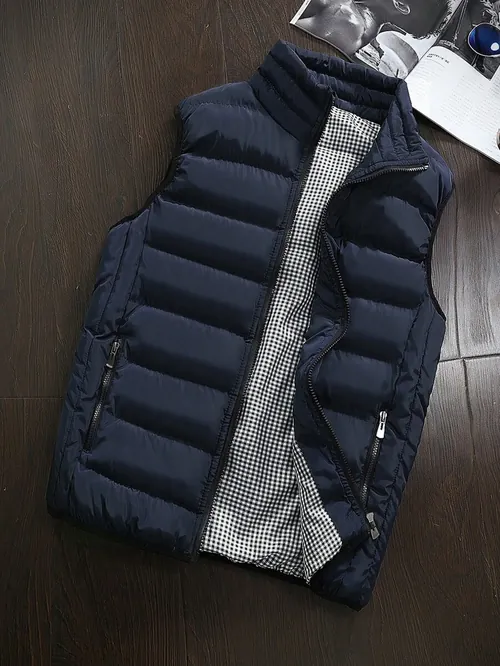
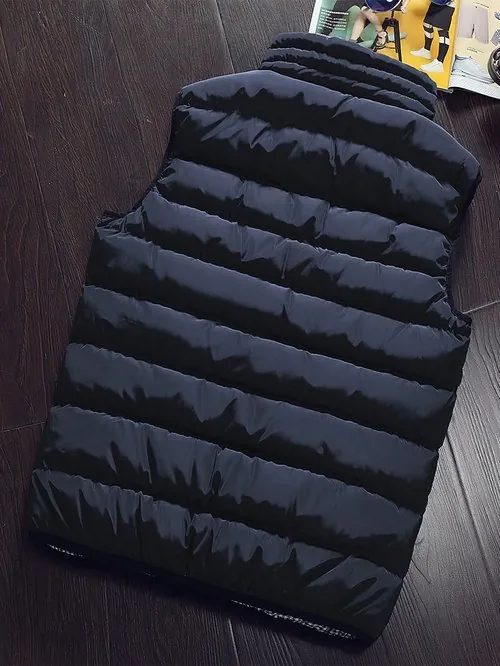
Gift session 1: Amazon AI images and SHEIN Affiliate photos
- N106-N124: the 19 Amazon AI images, each fitted whole into the 2:3
  card frame (blurred bands above and below; a 2:3 crop cut several
  products), with WebPs
- N125-N128: SHEIN Affiliate-site photos replace the ca.shein.com ones
  (N125 is a back view, alt text says so; N127 card height 601)

diff --git a/gift-guide/index.html b/gift-guide/index.html
@@ -2458,7 +2458,7 @@
         </article>
         <article class="card-tile" data-id="N125" data-tags="everyday" id="N125">
           <div class="thumb-wrap">
-            <picture><source type="image/webp" srcset="img/N125_manfinity-zip-up-padded-puffer-vest-500.webp"><img class="card-thumb" src="img/N125_manfinity-zip-up-padded-puffer-vest-500.jpg" alt="Manfinity Homme zip-up padded puffer vest for men, gift idea" width="500" height="666" loading="lazy" decoding="async"></picture>
+            <picture><source type="image/webp" srcset="img/N125_manfinity-zip-up-padded-puffer-vest-500.webp"><img class="card-thumb" src="img/N125_manfinity-zip-up-padded-puffer-vest-500.jpg" alt="Back view of a navy Manfinity Homme zip-up padded puffer vest for men, gift idea" width="500" height="666" loading="lazy" decoding="async"></picture>
             <span class="tier-badge">$25–60</span>
           </div>
           <div class="card-body">
@@ -2840,7 +2840,7 @@
         </article>
         <article class="card-tile" data-id="N127" data-tags="everyday" id="N127">
           <div class="thumb-wrap">
-            <picture><source type="image/webp" srcset="img/N127_manfinity-thermal-hooded-longline-coat-500.webp"><img class="card-thumb" src="img/N127_manfinity-thermal-hooded-longline-coat-500.jpg" alt="Manfinity Homme thermal hooded longline padded coat for men, gift idea" width="500" height="666" loading="lazy" decoding="async"></picture>
+            <picture><source type="image/webp" srcset="img/N127_manfinity-thermal-hooded-longline-coat-500.webp"><img class="card-thumb" src="img/N127_manfinity-thermal-hooded-longline-coat-500.jpg" alt="Manfinity Homme thermal hooded longline padded coat for men, gift idea" width="500" height="601" loading="lazy" decoding="async"></picture>
             <span class="tier-badge">$60–100</span>
           </div>
           <div class="card-body">
